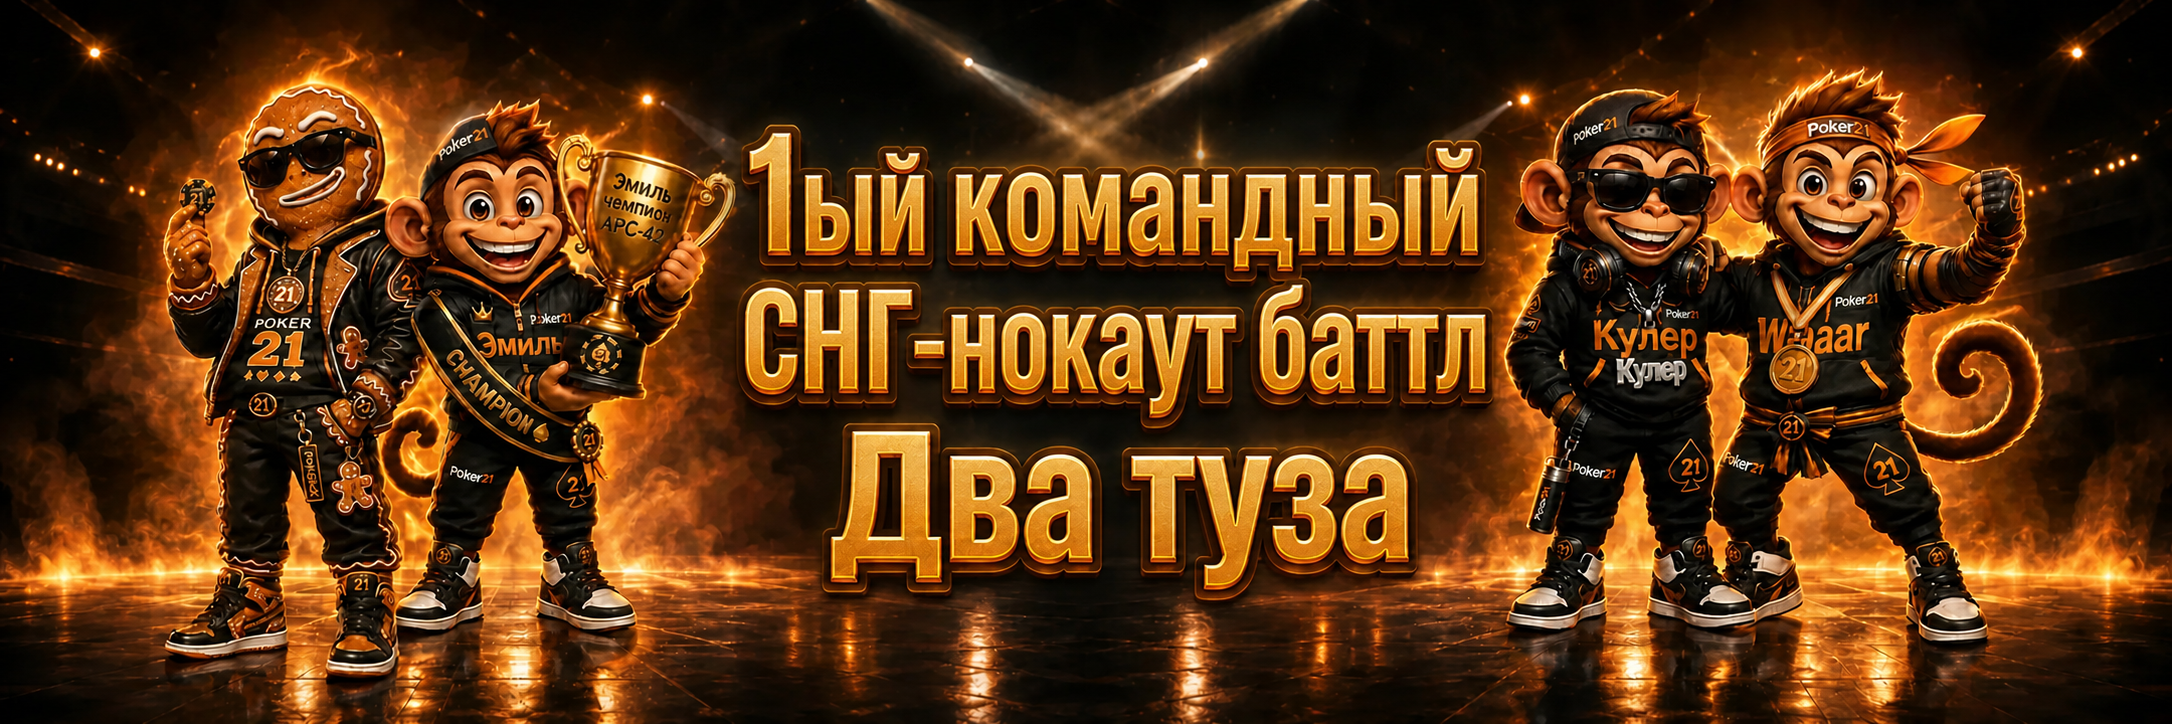
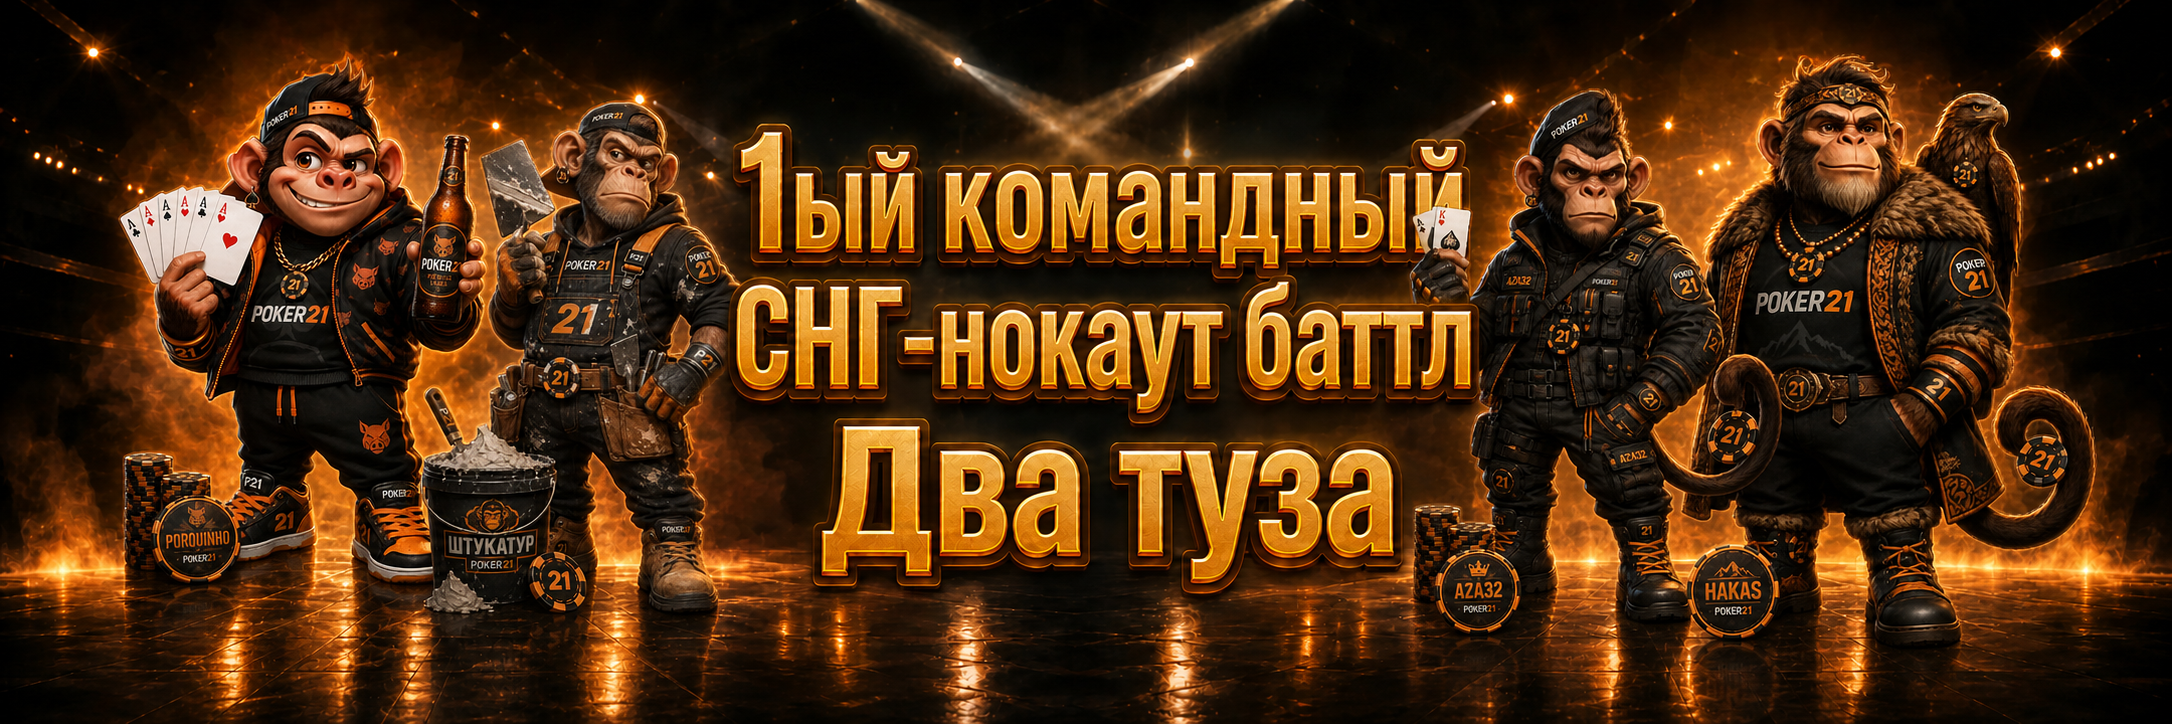
Polish ratings profiles and home layout

diff --git a/index.html b/index.html
@@ -320,15 +320,15 @@
         document.head.appendChild(preload);
       })();
     </script>
-    <link rel="stylesheet" href="./styles.css?v=3.873" />
+    <link rel="stylesheet" href="./styles.css?v=3.877" />
     <link rel="stylesheet" href="./styles-home-achievements.css?v=3.858" />
     <link type="application/poker-lazy-style" data-poker-lazy-domain="chat" href="./styles-chat.css?v=3.858" />
     <link type="application/poker-lazy-style" data-poker-lazy-domain="chat" href="./styles-chat-overlays.css?v=3.858" />
-    <link type="application/poker-lazy-style" data-poker-lazy-domain="chat profile" href="./styles-rating-chat-modals.css?v=3.871" />
+    <link type="application/poker-lazy-style" data-poker-lazy-domain="chat profile" href="./styles-rating-chat-modals.css?v=3.873" />
     <link type="application/poker-lazy-style" data-poker-lazy-domain="learning" href="./styles-learning-games.css?v=3.858" />
     <link type="application/poker-lazy-style" data-poker-lazy-domain="learning admin admin-bonuses" href="./styles-daily-poker.css?v=3.858" />
     <link type="application/poker-lazy-style" data-poker-lazy-domain="raffles" href="./styles-raffles.css?v=3.858" />
-    <link type="application/poker-lazy-style" data-poker-lazy-domain="rating-common" href="./styles-rating.css?v=3.859" />
+    <link type="application/poker-lazy-style" data-poker-lazy-domain="rating-common" href="./styles-rating.css?v=3.861" />
     <link type="application/poker-lazy-style" data-poker-lazy-domain="hall" href="./styles-hall.css?v=3.858" />
     <link type="application/poker-lazy-style" data-poker-lazy-domain="tournament" href="./styles-tournament.css?v=3.858" />
     <link type="application/poker-lazy-style" data-poker-lazy-domain="profile" href="./styles-profile.css?v=3.867" />
@@ -820,7 +820,7 @@
               <button type="button" class="home-mini-icon-item home-mini-icon-item--white home-mini-icon-item--hover-scale home-mini-icon-item--levels" data-hall-fish-open="1" title="Игроки клуба" aria-label="Открыть игроков клуба">
                 <img class="home-mini-icon__image home-mini-icon__image--stage" src="./assets/home-menu-stage-bg.webp?v=3.701" alt="" width="640" height="640" loading="lazy" decoding="async" aria-hidden="true" />
                 <img class="home-mini-icon__hero home-mini-icon__hero--levels" src="./assets/home-menu-icon-level-fish.png?v=3.701" alt="" width="151" height="186" loading="lazy" decoding="async" aria-hidden="true" />
-                <span class="home-mini-icon__label home-mini-icon__label--levels" id="homeMiniLevelsLabel">Игроки</span>
+                <span class="home-mini-icon__label home-mini-icon__label--levels" id="homeMiniLevelsLabel">Игроки/ачивки</span>
               </button>
             </div>
             <div class="home-club-actions-block" aria-label="Быстрые клубные действия">
@@ -1407,7 +1407,7 @@
                 </button>
                 <div class="daily-poker__sng-champions sng-inline-feature" aria-label="СНГ Лига Чемпионов Два Туза">
                   <button type="button" class="sng-inline-feature__image" data-sng-open aria-label="Открыть СНГ Лигу Чемпионов Два Туза">
-                    <img src="./assets/home-sng-champions-click-banner-team-knockout.webp?v=1" alt="" width="2172" height="724" loading="lazy" decoding="async" data-sng-home-banner />
+                    <img src="./assets/home-sng-champions-click-banner-team-knockout.webp?v=2" alt="" width="2172" height="724" loading="lazy" decoding="async" data-sng-home-banner />
                   </button>
                   <div class="sng-inline-feature__bar">
                     <span class="sng-inline-feature__stat"><small>Участники</small><strong data-sng-home-players>—/32</strong></span>
@@ -1511,7 +1511,7 @@
           <div class="view" data-view="transfers" data-html-fragment="./html-fragments/transfers.html?v=3.010" data-html-fragment-view="transfers"></div>
 
           <!-- Профиль грузится лениво: тяжёлый DOM живёт в html-fragments/profile.html -->
-          <div class="view" data-view="profile" data-html-fragment="./html-fragments/profile.html?v=3.621" data-html-fragment-view="profile"></div>
+          <div class="view" data-view="profile" data-html-fragment="./html-fragments/profile.html?v=3.622" data-html-fragment-view="profile"></div>
 
           <!-- Админка бонусных балансов -->
           <div class="view" data-view="admin-bonuses" data-html-fragment="./html-fragments/admin-bonuses.html?v=3.728" data-html-fragment-view="admin-bonuses"></div>
@@ -1785,7 +1785,7 @@
     <script defer src="./app-home-vpn-proxy-modal.js?v=3.858"></script>
     <script defer src="./app-home-gazette-comments.js?v=3.858"></script>
     <script defer src="./app-home-gazette-tasks.js?v=3.858"></script>
-    <script defer src="./app-home-friend-news.js?v=3.892"></script>
+    <script defer src="./app-home-friend-news.js?v=3.893"></script>
     <script type="application/poker-lazy" data-poker-lazy-domain="rating-common" src="./app-rating-core.js?v=3.858"></script>
     <script type="application/poker-lazy" data-poker-lazy-domain="rating-spring" src="./app-rating-spring-season.js?v=3.858"></script>
     <script type="application/poker-lazy" data-poker-lazy-domain="rating-summer" src="./app-rating-summer-season.js?v=3.858"></script>

diff --git a/styles-layout.css b/styles-layout.css
@@ -315,27 +315,25 @@ body[data-view="home"] .bottom-nav__item.bottom-nav__item--active .bottom-nav__e
 [data-theme="gold"] body[data-view="home"] .bottom-nav__item.bottom-nav__item--active,
 [data-theme="dark"].app-view-home .bottom-nav__item.bottom-nav__item--active,
 [data-theme="dark"] body[data-view="home"] .bottom-nav__item.bottom-nav__item--active {
-  color: #fff8ed;
-  border-color: rgba(251, 146, 60, 0.55);
+  border-color: rgba(255, 236, 181, 0.68);
   background:
-    radial-gradient(circle at 50% -10%, rgba(255, 255, 255, 0.34), transparent 48%),
-    linear-gradient(135deg, #f97316, #fb923c);
-  text-shadow: none;
+    linear-gradient(180deg, rgba(255, 255, 255, 0.28), rgba(255, 255, 255, 0.08) 34%, transparent 35%),
+    radial-gradient(circle at 50% 0%, rgba(255, 236, 181, 0.44), transparent 58%),
+    linear-gradient(145deg, #f6d58a 0%, #d6a354 54%, #8f5f20 100%);
+  color: #171008;
+  text-shadow: 0 1px 0 rgba(255, 244, 204, 0.45);
   box-shadow:
-    0 6px 16px rgba(248, 113, 22, 0.26),
-    inset 0 1px 0 rgba(255, 255, 255, 0.34);
+    0 8px 24px rgba(214, 163, 84, 0.28),
+    0 0 18px rgba(246, 213, 138, 0.12),
+    inset 0 1px 0 rgba(255, 255, 255, 0.28),
+    inset 0 -12px 18px rgba(73, 42, 13, 0.18);
 }
 [data-theme="gold"].app-view-home .bottom-nav__item.bottom-nav__item--active .bottom-nav__icon,
 [data-theme="gold"] body[data-view="home"] .bottom-nav__item.bottom-nav__item--active .bottom-nav__icon,
 [data-theme="dark"].app-view-home .bottom-nav__item.bottom-nav__item--active .bottom-nav__icon,
 [data-theme="dark"] body[data-view="home"] .bottom-nav__item.bottom-nav__item--active .bottom-nav__icon {
-  background:
-    radial-gradient(circle at 35% 20%, rgba(255, 255, 255, 0.36), transparent 44%),
-    rgba(255, 255, 255, 0.18);
-  color: #fff;
-  box-shadow:
-    inset 0 1px 0 rgba(255, 255, 255, 0.22),
-    0 6px 14px rgba(67, 34, 6, 0.22);
+  background: rgba(255, 245, 215, 0.26);
+  color: #171008;
 }
 [data-theme="gold"].app-view-home .bottom-nav__item.bottom-nav__item--active .bottom-nav__emoji,
 [data-theme="gold"] body[data-view="home"] .bottom-nav__item.bottom-nav__item--active .bottom-nav__emoji,
@@ -343,9 +341,8 @@ body[data-view="home"] .bottom-nav__item.bottom-nav__item--active .bottom-nav__e
 [data-theme="dark"] body[data-view="home"] .bottom-nav__item.bottom-nav__item--active .bottom-nav__emoji {
   filter:
     saturate(1.04)
-    drop-shadow(0 1px 0 rgba(255, 255, 255, 0.2))
-    drop-shadow(0 0 5px rgba(255, 231, 168, 0.3))
-    drop-shadow(0 1.5px 1px rgba(67, 34, 6, 0.3));
+    drop-shadow(0 1px 0 rgba(255, 244, 204, 0.26))
+    drop-shadow(0 0 5px rgba(143, 95, 32, 0.28));
 }
 
 .bottom-nav__chat-wrap {

diff --git a/html-fragments/profile.html b/html-fragments/profile.html
@@ -232,6 +232,14 @@
               </section>
             </section>
             <div id="profileVerifiedContent">
+            <div class="profile-chat-push profile-chat-push--hidden" id="profileChatPushRow" aria-hidden="true" data-profile-club-panel>
+              <p class="profile-chat-push__title">Уведомления (PWA)</p>
+              <label class="profile-chat-push__label">
+                <input type="checkbox" class="profile-chat-push__checkbox" id="profileChatPushToggle" />
+                <span class="profile-chat-push__text">Пуш о новых сообщениях в чате</span>
+              </label>
+              <p class="profile-chat-push__hint" id="profileChatPushHint">Личные сообщения, когда приложение свернуто или закрыто (браузер Android/ПК или PWA с экрана «Домой» на iOS). Разрешите уведомления.</p>
+            </div>
             <section class="profile-email-auth" id="profileEmailAuthSection" hidden data-profile-club-panel>
               <h2 class="profile-section__title profile-account-card__title" id="profileEmailAuthTitle">Аккаунт и подписки</h2>
               <p class="profile-email-auth__text" id="profileEmailAuthText">Привяжите email, чтобы потом можно было входить в аккаунт по почте.</p>
@@ -468,14 +476,6 @@
               </div>
               </div>
             </section>
-            <div class="profile-chat-push profile-chat-push--hidden" id="profileChatPushRow" aria-hidden="true" data-profile-club-panel>
-              <p class="profile-chat-push__title">Уведомления (PWA)</p>
-              <label class="profile-chat-push__label">
-                <input type="checkbox" class="profile-chat-push__checkbox" id="profileChatPushToggle" />
-                <span class="profile-chat-push__text">Пуш о новых сообщениях в чате</span>
-              </label>
-              <p class="profile-chat-push__hint" id="profileChatPushHint">Личные сообщения, когда приложение свернуто или закрыто (браузер Android/ПК или PWA с экрана «Домой» на iOS). Разрешите уведомления.</p>
-            </div>
             <div class="profile-visible-to-others" data-profile-club-panel>
               <section class="profile-section profile-tournaments">
                 <h2 class="profile-section__title" id="profileTournamentsTitle">Турниры</h2>

diff --git a/styles-rating-late.css b/styles-rating-late.css
@@ -5379,12 +5379,29 @@ body[data-view="summer-rating"] .winter-rating.spring-rating .winter-rating__tit
 }
 
 /* Compact summer secondary actions with a section-aware copy-link button. */
-.winter-rating.spring-rating.summer-rating .winter-rating__spring-action-tabs {
-  grid-template-columns: max-content max-content 27px;
+.winter-rating.spring-rating.summer-rating .winter-rating__spring-main-tabs {
+  grid-template-columns: repeat(3, max-content);
   width: max-content;
+  height: 33px;
+  min-height: 33px;
+  padding: 2px;
+  gap: 2px;
+}
+
+.winter-rating.spring-rating.summer-rating .winter-rating__spring-main-tab {
+  width: auto;
+  min-height: 27px;
+  height: 27px;
+  padding-inline: 12px;
+}
+
+.winter-rating.spring-rating.summer-rating .winter-rating__spring-action-tabs {
+  grid-template-columns: repeat(2, minmax(0, 1fr)) 27px;
+  width: min(300px, calc(100% - 20px));
   min-width: 0;
   padding: 2px;
   gap: 3px;
+  overflow: visible;
 }
 
 .winter-rating.spring-rating.summer-rating .winter-rating__spring-action-tab {
@@ -5406,11 +5423,33 @@ body[data-view="summer-rating"] .winter-rating.spring-rating .winter-rating__tit
 
 .winter-rating.spring-rating.summer-rating .winter-rating__spring-section-copy .winter-rating__share-icon {
   display: inline-flex;
-  width: 15px;
-  height: 15px;
+  width: 18px;
+  height: 18px;
 }
 
 .winter-rating.spring-rating.summer-rating .winter-rating__spring-section-copy svg {
-  width: 15px;
-  height: 15px;
+  width: 18px;
+  height: 18px;
+  stroke-width: 2.5;
+}
+
+.winter-rating.spring-rating.summer-rating .winter-rating__spring-section-copy.winter-rating__share-btn--copied .winter-rating__share-icon {
+  opacity: 0;
+}
+
+.winter-rating.spring-rating.summer-rating .winter-rating__spring-section-copy.winter-rating__share-btn--copied::after {
+  content: "✓";
+  position: absolute;
+  color: #2b1600;
+  font-size: 18px;
+  font-weight: 1000;
+  line-height: 1;
+}
+
+.winter-rating.spring-rating.summer-rating .winter-rating__spring-tabs-updated {
+  width: min(300px, calc(100% - 20px));
+}
+
+.winter-rating.spring-rating.summer-rating .winter-rating__spring-action-tabs .winter-rating__spring-league-copy-feedback {
+  top: calc(100% + 20px);
 }

diff --git a/html-fragments/raffles.html b/html-fragments/raffles.html
@@ -227,7 +227,7 @@
               <p class="raffle-ready-window-note">У вас будет 15 минут, чтобы забрать выигрыш (нажать «Готов»), если вы не успели, то выбирается другой победитель. Следите за временем завершения, также вам придет оповещение о победе в телеграмм-бот, если вы подписались.</p>
               <div class="raffles-private-cash-ad raffles-sng-champions-ad sng-inline-feature" aria-label="СНГ Лига Чемпионов Два Туза">
                 <button type="button" class="sng-inline-feature__image" data-sng-open aria-label="Открыть СНГ Лигу Чемпионов Два Туза">
-                  <img src="./assets/home-sng-champions-click-banner-team-knockout.webp?v=1" alt="" width="2172" height="724" loading="lazy" decoding="async" data-sng-home-banner />
+                  <img src="./assets/home-sng-champions-click-banner-team-knockout.webp?v=2" alt="" width="2172" height="724" loading="lazy" decoding="async" data-sng-home-banner />
                 </button>
                 <div class="sng-inline-feature__bar">
                   <span class="sng-inline-feature__stat"><small>Участники</small><strong data-sng-home-players>—/32</strong></span>

diff --git a/styles.css b/styles.css
@@ -7,8 +7,8 @@
 @import url("./styles-download.css?v=3.858");
 @import url("./styles-home-legacy-tail.css?v=3.858");
 @import url("./styles-home-rating-promo-legacy.css?v=3.858");
-@import url("./styles-layout.css?v=3.860");
-@import url("./styles-home-overrides.css?v=3.864");
+@import url("./styles-layout.css?v=3.861");
+@import url("./styles-home-overrides.css?v=3.865");
 @import url("./styles-layout-touch-targets.css?v=3.858");
 @import url("./styles-home-rating-promo-late.css?v=3.858");
 
@@ -10509,7 +10509,7 @@ html body:not([data-view="chat"]) #app.app > .card > .card__header .header-actio
 }
 
 .app.app--view-home .tournament-day-home-dual--tournament-focus {
-  margin-top: 8px !important;
+  margin-top: 20px !important;
 }
 
 .app.app--view-home .tournament-day-home-dual--tournament-focus .home-tournament-section-title {
@@ -10804,6 +10804,7 @@ html body[data-view] #app .bonus-game-back {
 .app.app--view-home .tournament-day-home-dual--tournament-focus .home-tournament-bonus:nth-child(n + 4),
 .app.app--view-home .tournament-day-home-dual--tournament-focus .home-tournament-bonus--bubble-buyin {
   padding-inline: 10px;
+  border: 0;
 }
 
 .app.app--view-home .tournament-day-home-dual--tournament-focus .home-tournament-bonus::before,

diff --git a/styles-rating-chat-modals.css b/styles-rating-chat-modals.css
@@ -463,7 +463,7 @@
 }
 .chat-user-modal__top {
   display: grid;
-  grid-template-columns: max-content minmax(180px, 1fr) 58px;
+  grid-template-columns: minmax(0, 1.18fr) minmax(150px, 0.82fr);
   gap: 14px;
   justify-content: stretch;
   align-items: start;
@@ -473,7 +473,7 @@
 .chat-user-modal__top-actions {
   display: grid;
   gap: 8px;
-  width: min(236px, 100%);
+  width: 100%;
   min-width: 0;
   justify-self: center;
   transform: translateX(-10px);
@@ -1701,6 +1701,17 @@
     0 8px 22px rgba(175, 85, 3, 0.24),
     inset 0 1px 0 rgba(255, 248, 214, 0.3),
     inset 0 -1px 0 rgba(70, 28, 0, 0.5);
+}
+#chatUserModal .chat-user-modal__rating-tab {
+  background:
+    radial-gradient(circle at 8% 20%, rgba(255, 224, 132, 0.38), transparent 34%),
+    radial-gradient(circle at 92% 50%, rgba(255, 157, 31, 0.2), transparent 40%),
+    linear-gradient(112deg, rgba(72, 39, 12, 0.98), rgba(34, 23, 15, 0.98) 48%, rgba(16, 20, 29, 0.99)) !important;
+  box-shadow:
+    inset 0 1px 0 rgba(255, 244, 207, 0.22),
+    inset 5px 0 0 rgba(255, 188, 67, 0.5),
+    0 8px 24px rgba(157, 82, 8, 0.25),
+    0 0 22px rgba(255, 165, 36, 0.12);
 }
 .chat-user-modal__rating-tab-icon {
   display: grid;

diff --git a/styles-home-overrides.css b/styles-home-overrides.css
@@ -73,14 +73,14 @@ html[data-theme="gold"] body[data-view="home"] {
   overflow: hidden;
   color: #e8eef8;
   background:
-    radial-gradient(circle at 9% 44%, rgba(var(--friend-news-rgb), 0.48), transparent 42%),
-    linear-gradient(105deg, rgba(var(--friend-news-rgb), 0.34), rgba(var(--friend-news-rgb), 0.2) 58%, rgba(var(--friend-news-rgb), 0.13) 100%),
-    #1a222d;
-  border: 1px solid rgba(var(--friend-news-rgb), 0.76);
+    radial-gradient(circle at 12% 48%, rgba(var(--friend-news-rgb), 0.72), transparent 46%),
+    linear-gradient(105deg, rgba(var(--friend-news-rgb), 0.54), rgba(var(--friend-news-rgb), 0.32) 58%, rgba(var(--friend-news-rgb), 0.22) 100%),
+    #151c26;
+  border: 1px solid rgba(var(--friend-news-rgb), 0.92);
   border-radius: 15px;
   box-shadow:
     0 8px 22px rgba(4, 8, 15, 0.18),
-    0 0 30px rgba(var(--friend-news-rgb), 0.2),
+    0 0 30px rgba(var(--friend-news-rgb), 0.3),
     inset 6px 0 0 rgba(var(--friend-news-rgb), 0.98),
     inset 0 1px 0 rgba(255, 255, 255, 0.12);
   cursor: pointer;

diff --git a/app-sng-champions.js b/app-sng-champions.js
@@ -1994,7 +1994,7 @@
     var teamKnockoutTitle = state.status !== "draft" && /^1(?:ый|й)\s+командный\s+снг[-\s]?нокаут\s+баттл\s+два\s+туза$/i.test(normalizedHomeTitle);
     Array.prototype.forEach.call(document.querySelectorAll("[data-sng-home-banner]"), function (banner) {
       banner.src = teamKnockoutTitle
-        ? "./assets/home-sng-champions-click-banner-team-knockout.webp?v=1"
+        ? "./assets/home-sng-champions-click-banner-team-knockout.webp?v=2"
         : "./assets/home-sng-champions-click-banner.webp?v=2";
     });
     var buttons = Array.prototype.slice.call(document.querySelectorAll("[data-sng-open], #sngChampionsOpen"));

diff --git a/app-home-friend-news.js b/app-home-friend-news.js
@@ -937,11 +937,8 @@
   function init() {
     events = readRenderedEventsCache();
     mountWhenProfileReady();
-    window.addEventListener("poker-profile-friends-ready", function (event) {
-      var supplied = event && event.detail && Array.isArray(event.detail.friends)
-        ? event.detail.friends
-        : null;
-      load(supplied);
+    window.addEventListener("poker-profile-friends-ready", function () {
+      load();
     });
     window.addEventListener("poker-auth-changed", function () {
       lastFriendsSignature = "";

diff --git a/styles-rating.css b/styles-rating.css
@@ -1,4 +1,4 @@
 /* Rating CSS entrypoint. Keep imports in this order: the legacy cascade depends on it. */
 @import url("./styles-hall-rating-lightbox.css?v=3.666");
-@import url("./styles-rating-tables-modals.css?v=3.642");
+@import url("./styles-rating-tables-modals.css?v=3.644");
 @import url("./styles-rating-chat-modals.css?v=3.660");

diff --git a/styles-rating-tables-modals.css b/styles-rating-tables-modals.css
@@ -1,4 +1,4 @@
 /* styles-rating-tables-modals.css entrypoint. Keep imports in this order: the legacy cascade depends on it. */
 @import url("./styles-rating-tables.css?v=3.281");
 @import url("./styles-rating-modals.css?v=3.570");
-@import url("./styles-rating-late.css?v=3.642");
+@import url("./styles-rating-late.css?v=3.644");
